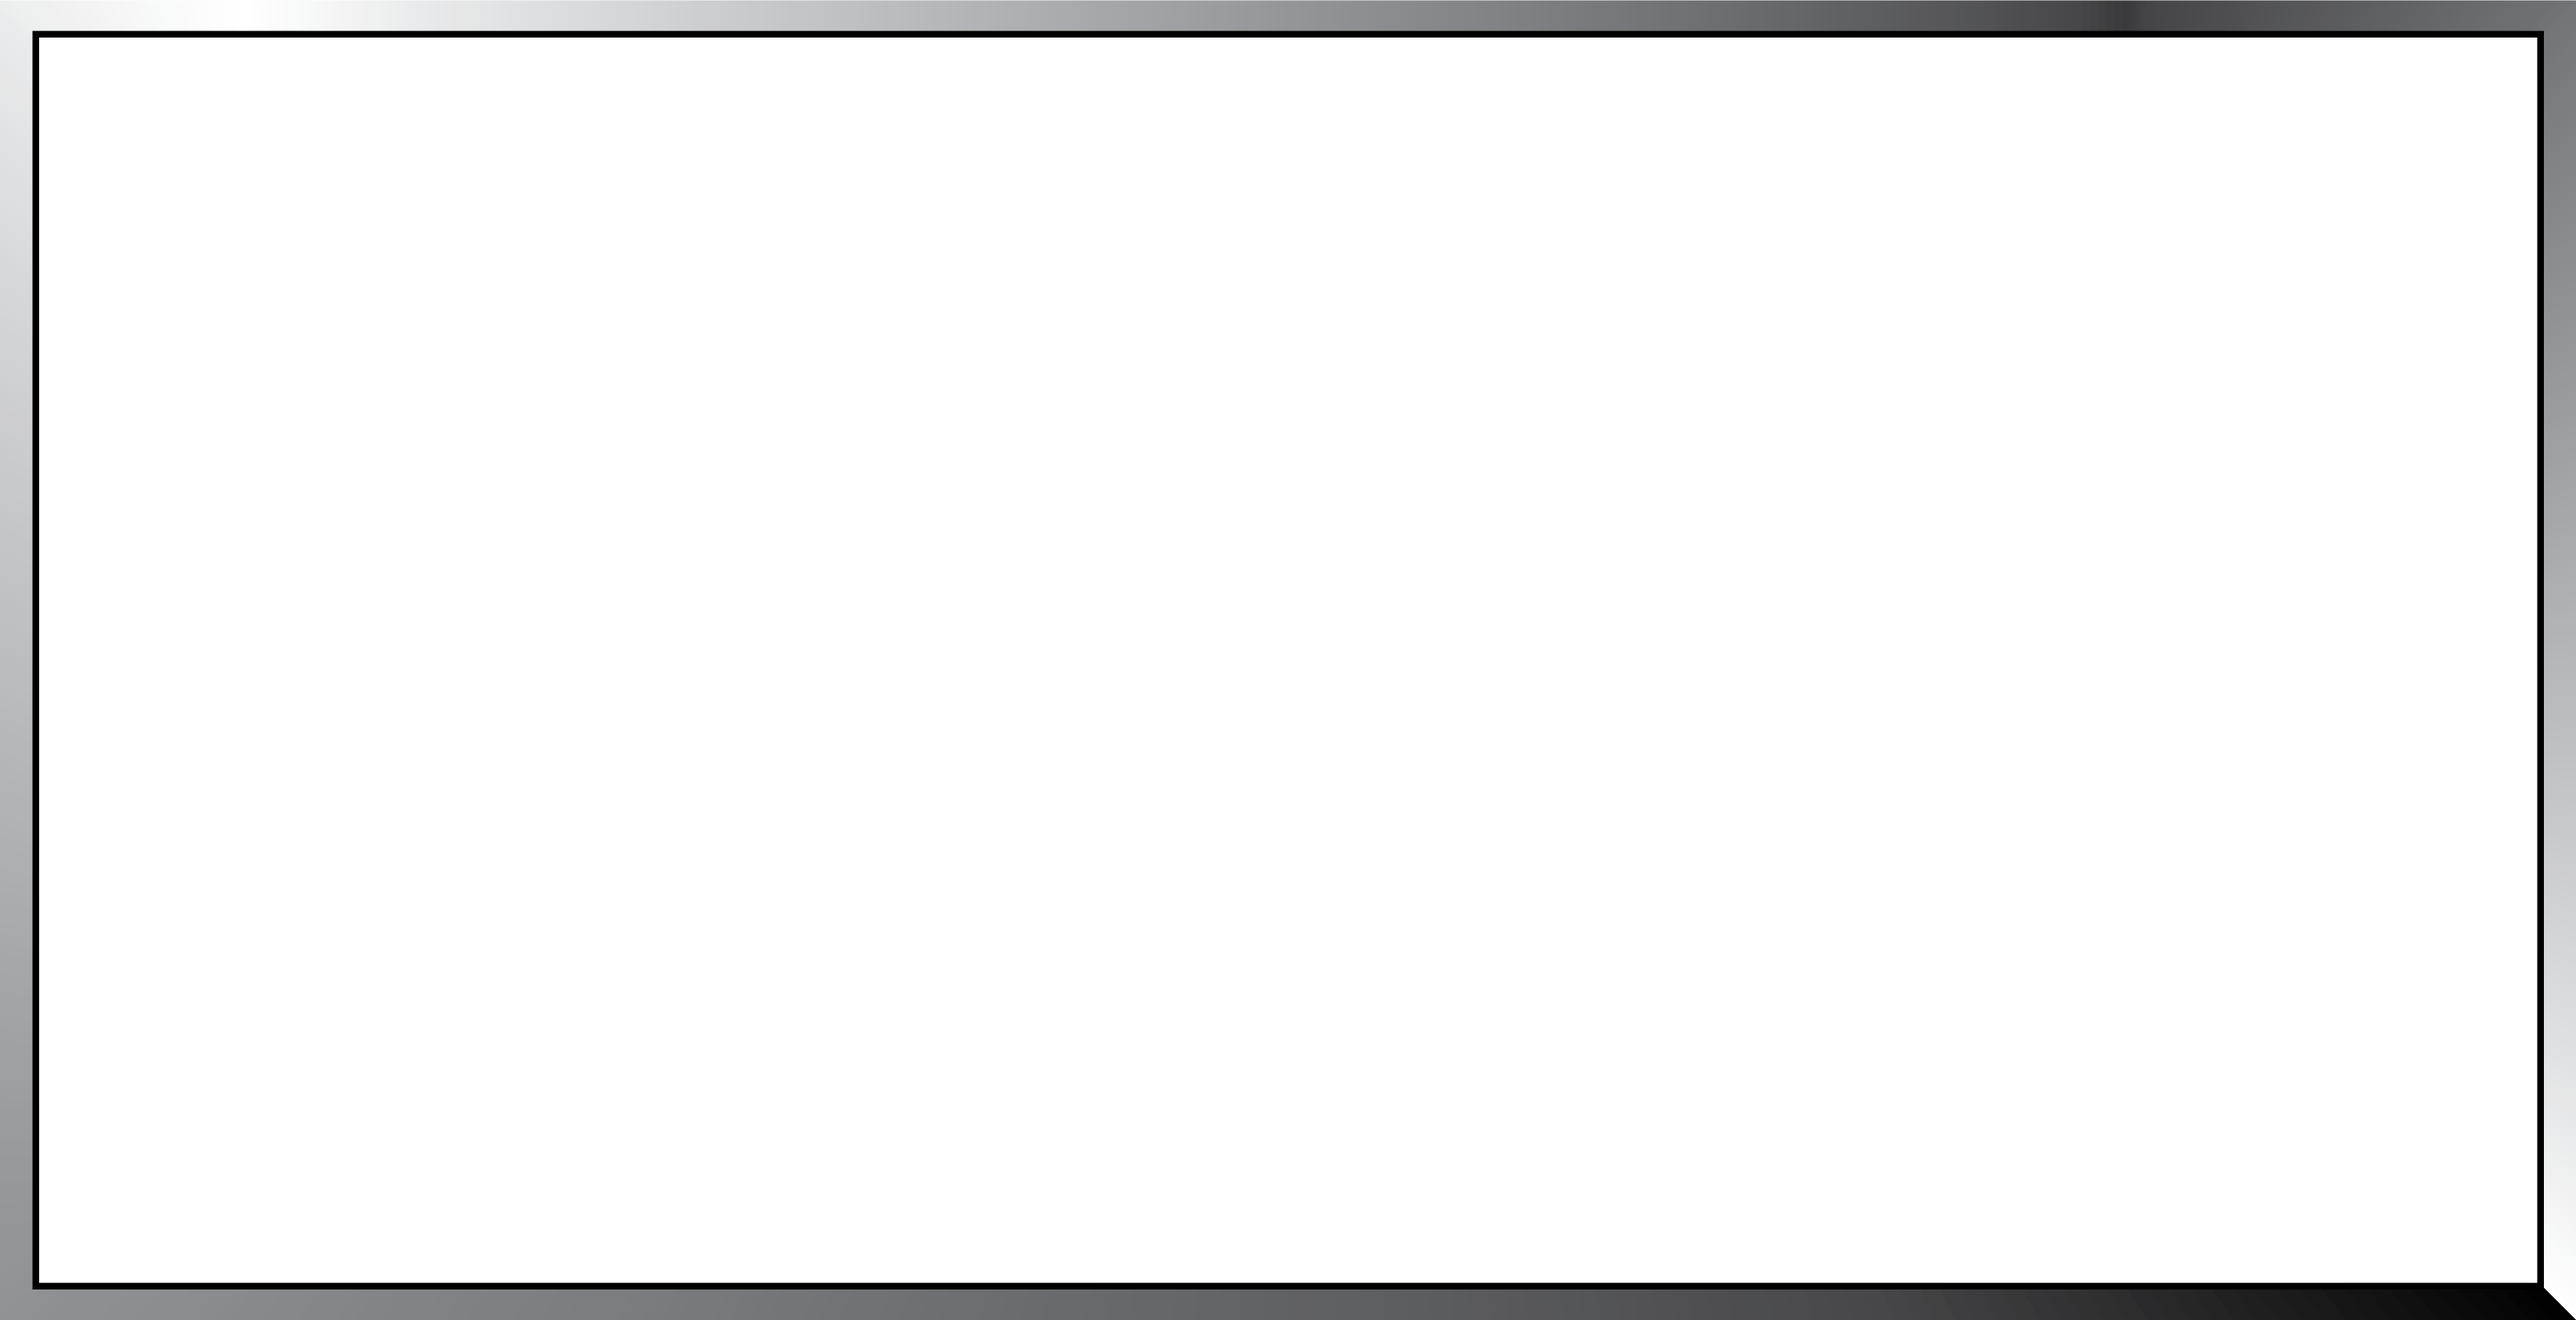
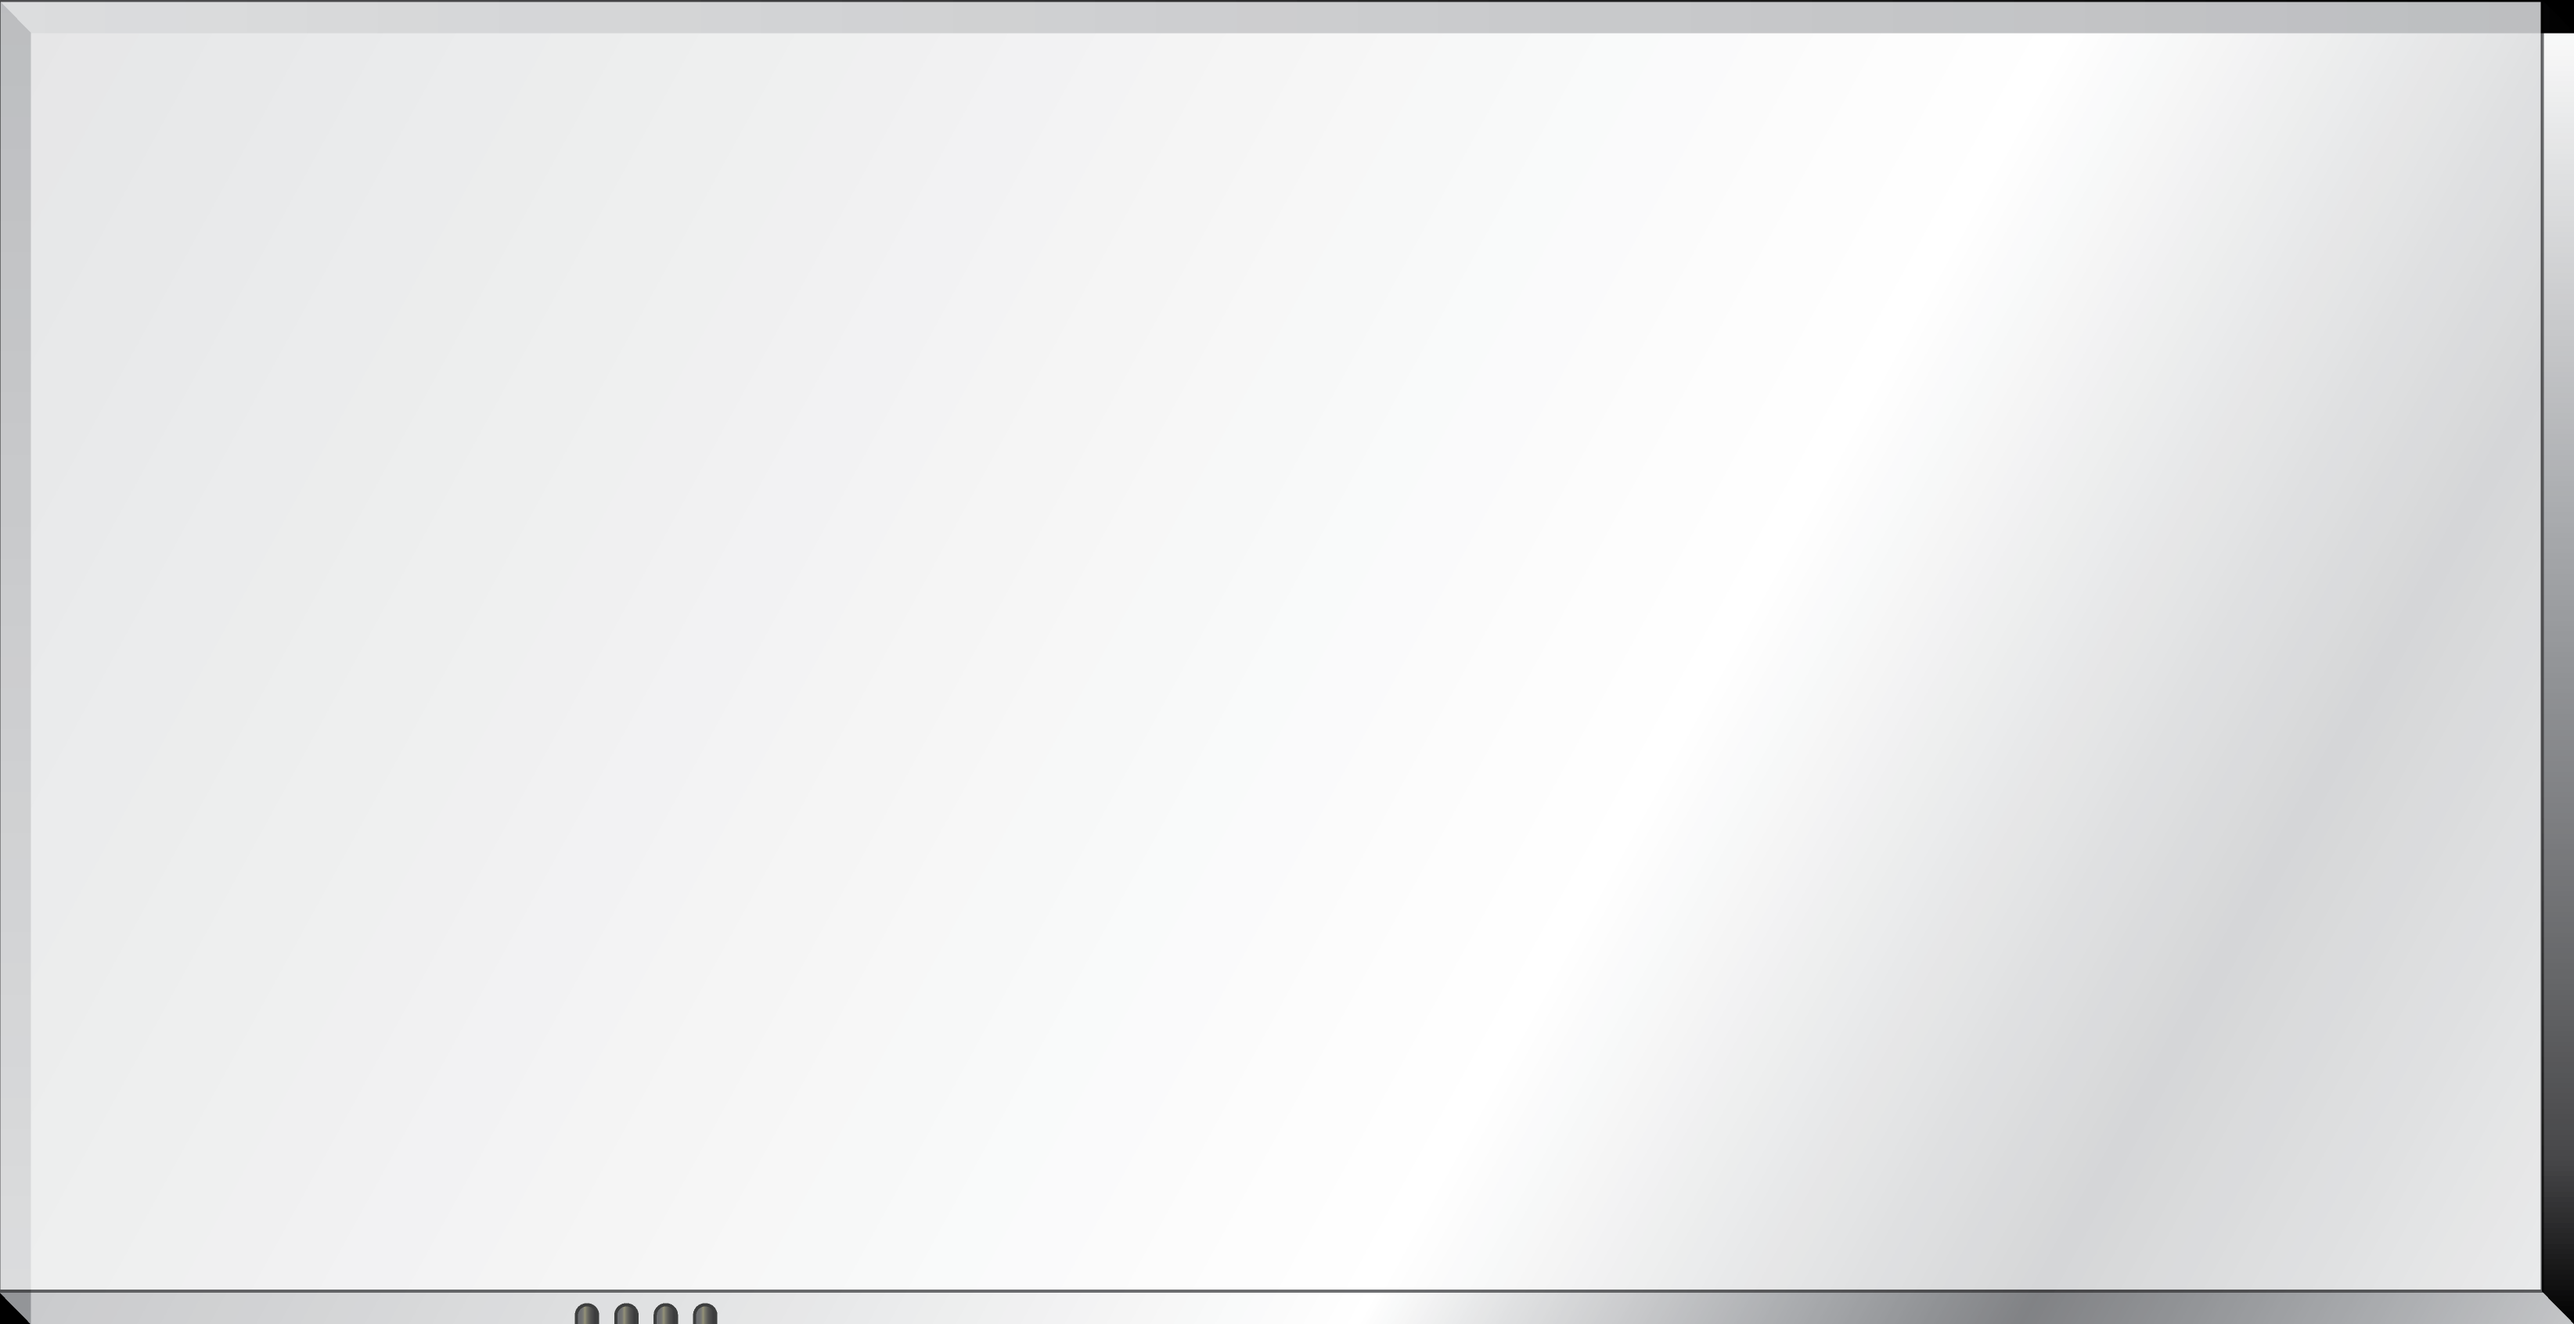
nahozené nové pozadí

Changed region(s): [[0.0, 0.0, 1.0, 1.0]]

diff --git a/ts/AbstractLevel.js b/ts/AbstractLevel.js
@@ -13,13 +13,15 @@ var FloodTactics;
         }
         AbstractLevel.prototype.create = function () {
             var _this = this;
+            var playground = this.game.add.sprite(0, 0, 'playground');
+            playground.scale.set(0.25);
             this.muted = false;
             this.game.canvas.oncontextmenu = function (e) { e.preventDefault(); }; //zablokování vyskočení menu u kliknutí pravým tlačítkem
             //zde se nastavuje vítězná podmínka
             this.winChecker = new FloodTactics.OneColorWinChecker(FloodTactics.Color.Blue);
             //this.winChecker = new CountNeighborsWinChecker();
             this.winningTween = null;
-            this.winningDescription = this.game.add.bitmapText(400, 420, 'arialBlack', "Winning condition: " + this.winChecker.getDescription(), 32);
+            this.winningDescription = this.game.add.bitmapText(400, 880, 'arial', "Winning condition: " + this.winChecker.getDescription(), 32);
             this.winningDescription.maxWidth = 700; //zalamování, aby byl text na více řádků, pokud je moc dlouhý
             this.winningDescription.anchor.set(0.5);
             var button = this.game.add.button(180, 480, 'button', function () { _this.grid.restartLevel(); }, this);

diff --git a/ts/AbstractLevel.ts b/ts/AbstractLevel.ts
@@ -14,13 +14,15 @@ module FloodTactics {
 
 
         create() {
+			var playground = this.game.add.sprite(0, 0, 'playground');
+			playground.scale.set(0.25);
 			this.muted = false;
 	        this.game.canvas.oncontextmenu = function (e) { e.preventDefault(); }   //zablokování vyskočení menu u kliknutí pravým tlačítkem
 	        //zde se nastavuje vítězná podmínka
 	        this.winChecker = new OneColorWinChecker(Color.Blue);
 	        //this.winChecker = new CountNeighborsWinChecker();
             this.winningTween = null;
-            this.winningDescription = this.game.add.bitmapText(400, 420, 'arialBlack', "Winning condition: " + this.winChecker.getDescription(), 32);
+            this.winningDescription = this.game.add.bitmapText(400, 880, 'arial', "Winning condition: " + this.winChecker.getDescription(), 32);
 	        this.winningDescription.maxWidth = 700;    //zalamování, aby byl text na více řádků, pokud je moc dlouhý
 	        this.winningDescription.anchor.set(0.5);
 

diff --git a/ts/Preloader.js b/ts/Preloader.js
@@ -13,8 +13,9 @@ var FloodTactics;
         }
         Preloader.prototype.preload = function () {
             //  Load our actual games assets
-            this.load.image('background', 'images/background-small.png');
-            this.load.image('backgroundSquare', 'images/backgroundSquare-small.png');
+            this.load.image('background', 'images/background.png');
+            this.load.image('backgroundSquare', 'images/backgroundSquare.png');
+            this.load.image('playground', 'images/playground-plain.png');
             this.load.image('yellow', 'images/yellow-cell.png');
             this.load.image('brown', 'images/brown-cell.png');
             this.load.image('red', 'images/red-cell.png');

diff --git a/ts/Preloader.ts b/ts/Preloader.ts
@@ -7,8 +7,9 @@ module FloodTactics {
         preload() {
 
             //  Load our actual games assets
-            this.load.image('background', 'images/background-small.png');
-			this.load.image('backgroundSquare', 'images/backgroundSquare-small.png');
+            this.load.image('background', 'images/background.png');
+			this.load.image('backgroundSquare', 'images/backgroundSquare.png');
+			this.load.image('playground', 'images/playground-plain.png');
 
             this.load.image('yellow', 'images/yellow-cell.png');
             this.load.image('brown', 'images/brown-cell.png');

diff --git a/ts/Game.js b/ts/Game.js
@@ -9,7 +9,7 @@ var FloodTactics;
     var Game = (function (_super) {
         __extends(Game, _super);
         function Game() {
-            _super.call(this, 800, 850, Phaser.AUTO, 'content', null);
+            _super.call(this, 898, 908, Phaser.AUTO, 'content', null);
             this.state.add('Boot', FloodTactics.Boot, false);
             this.state.add('Preloader', FloodTactics.Preloader, false);
             this.state.add('Menu', FloodTactics.Menu, false);

diff --git a/ts/Game.ts b/ts/Game.ts
@@ -6,7 +6,7 @@ module FloodTactics {
 
         constructor() {
 
-            super(800, 850, Phaser.AUTO, 'content', null);
+            super(898, 908, Phaser.AUTO, 'content', null);
 
             this.state.add('Boot', Boot, false);
             this.state.add('Preloader', Preloader, false);
